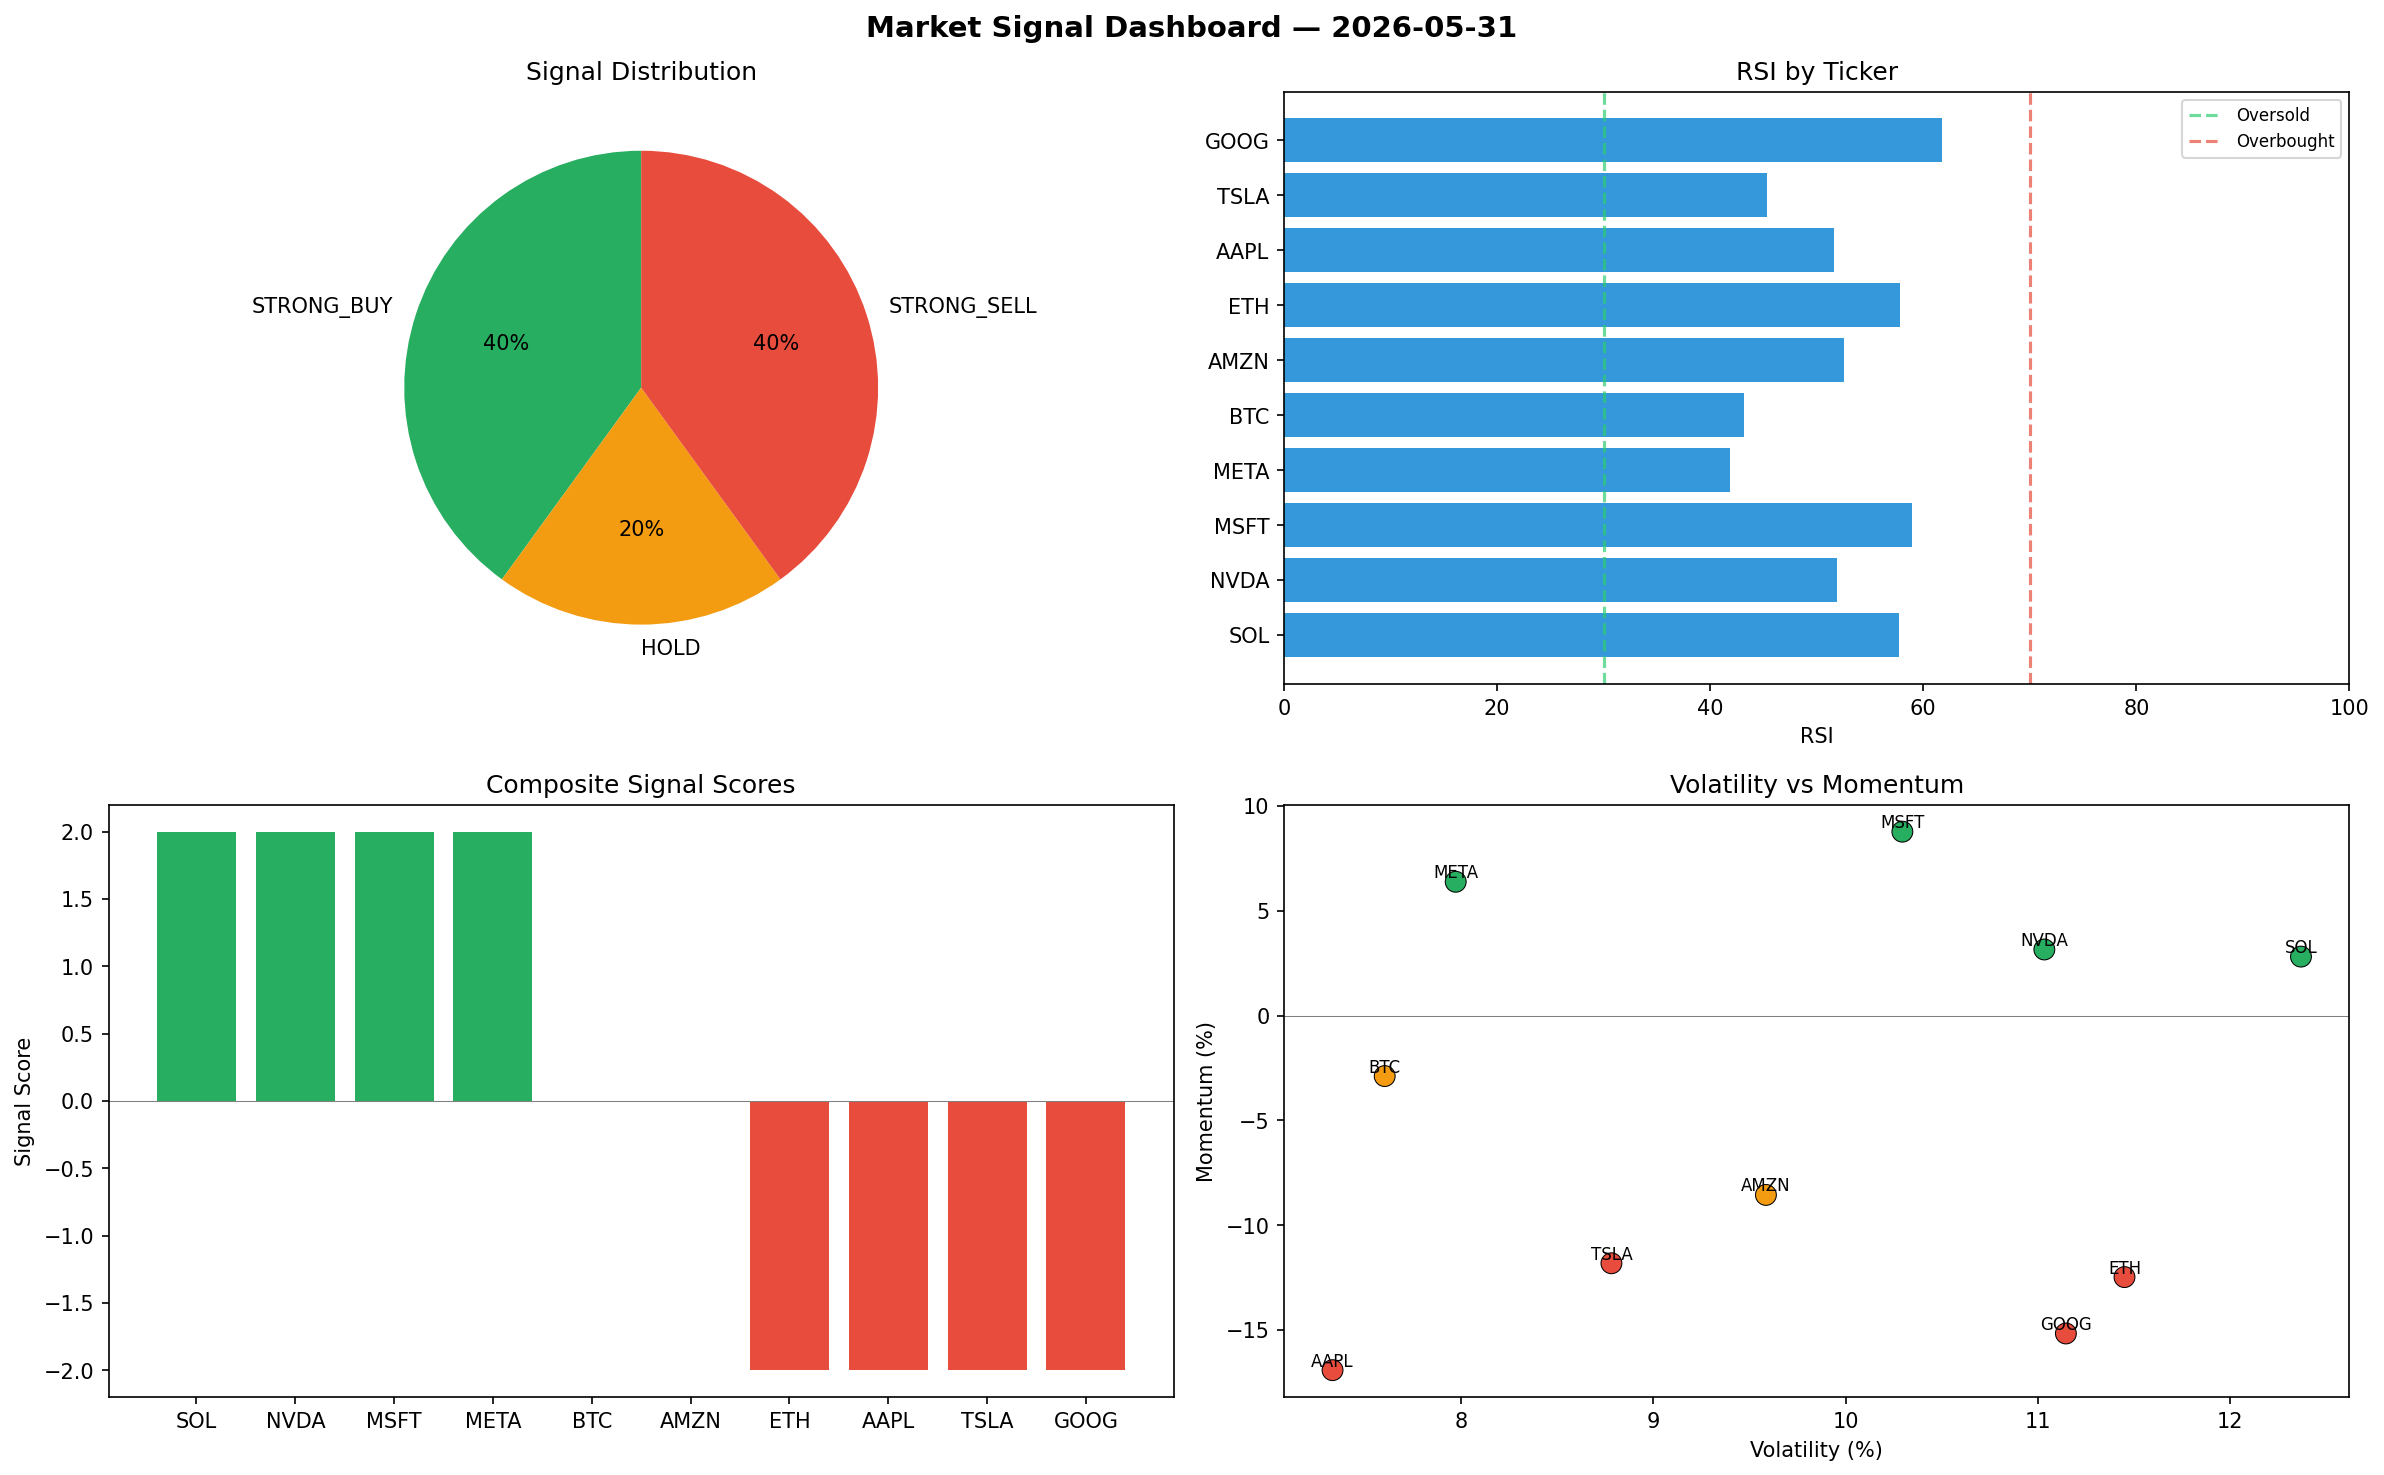
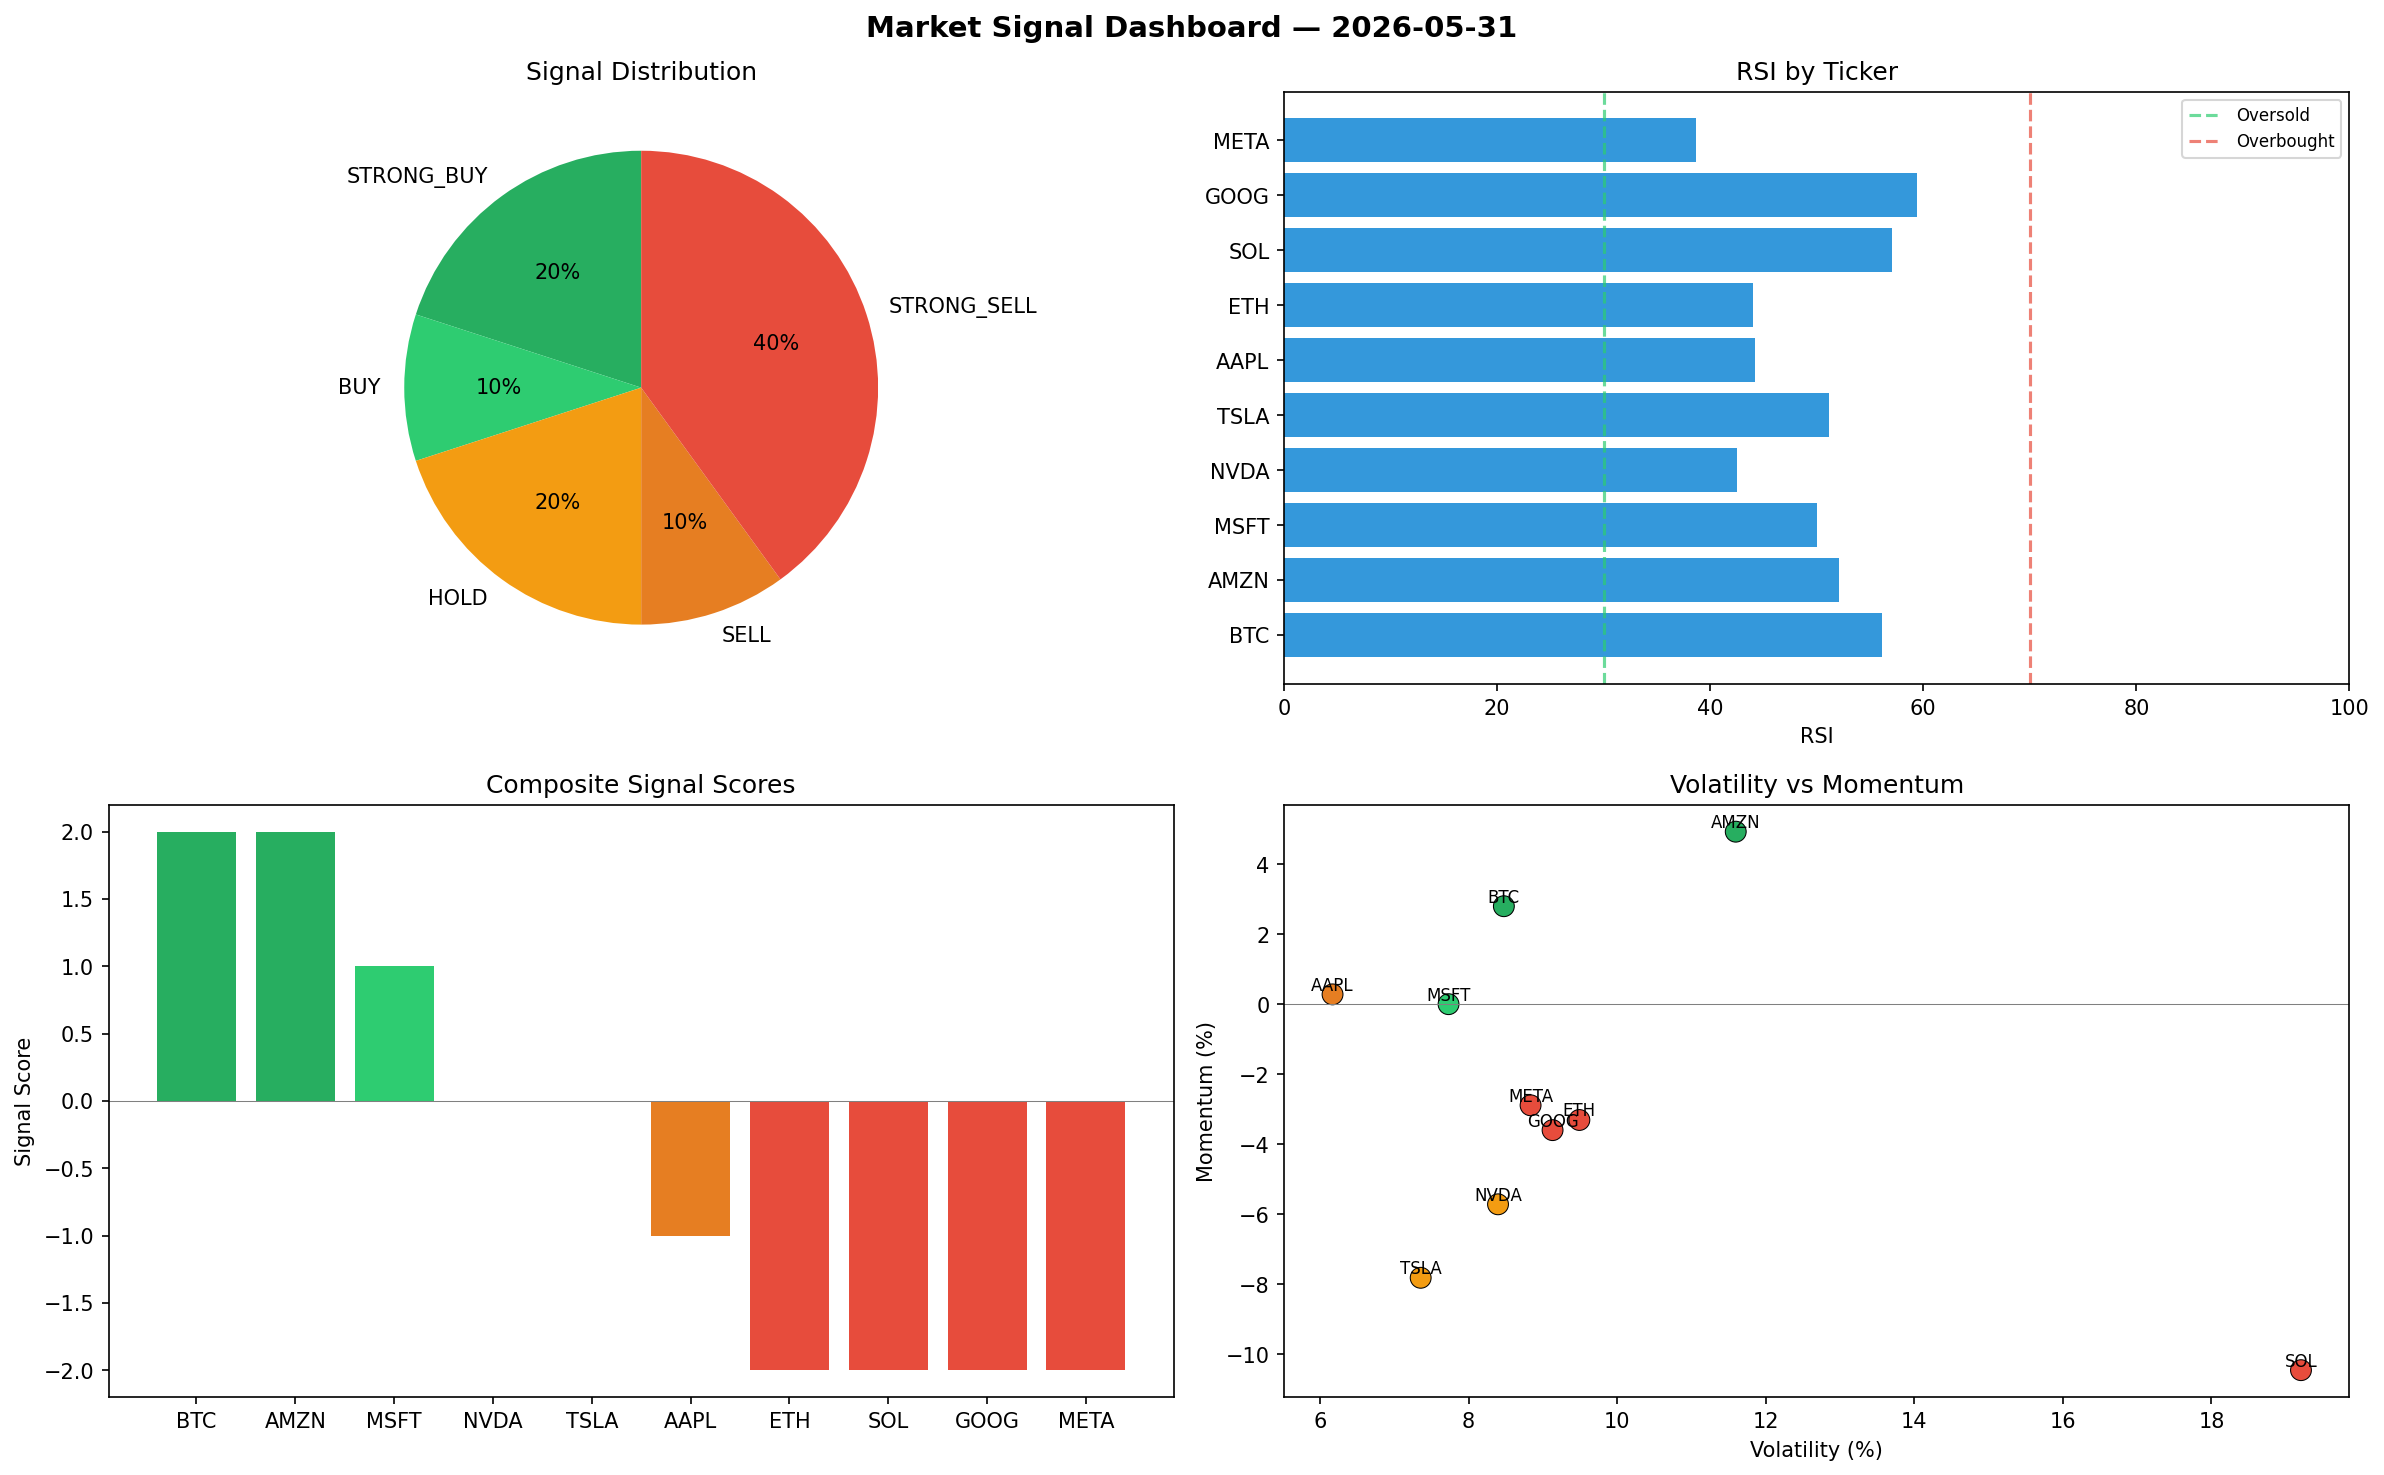
automated-bots: market signals 2026-05-31T15:49

diff --git a/logs/2026-05-31.md b/logs/2026-05-31.md
@@ -1,6 +1,6 @@
 # Market Signal Report — 2026-05-31
 
-**Run ID:** `00b2ddc9ed` | **Buy:** 4 | **Sell:** 4 | **Hold:** 2
+**Run ID:** `d0213c46e3` | **Buy:** 3 | **Sell:** 5 | **Hold:** 2
 
 ![Dashboard](2026-05-31_dashboard.png)
 
@@ -8,28 +8,28 @@
 
 | Ticker | Price | Signal | Score | RSI | Momentum | Confidence |
 |--------|-------|--------|-------|-----|----------|------------|
-| SOL | $4107.29 | **STRONG_BUY** | 2 | 57.73 | 0.0281 | 0.5 |
-| NVDA | $4864.78 | **STRONG_BUY** | 2 | 51.9 | 0.0315 | 0.5 |
-| MSFT | $4326.11 | **STRONG_BUY** | 2 | 58.95 | 0.0877 | 0.5 |
-| META | $2443.5 | **STRONG_BUY** | 2 | 41.82 | 0.0638 | 0.5 |
-| BTC | $1623.41 | **HOLD** | 0 | 43.18 | -0.0289 | 0.0 |
-| AMZN | $1313.38 | **HOLD** | 0 | 52.57 | -0.0856 | 0.0 |
-| ETH | $4355.15 | **STRONG_SELL** | -2 | 57.82 | -0.1248 | 0.5 |
-| AAPL | $2088.69 | **STRONG_SELL** | -2 | 51.61 | -0.1692 | 0.5 |
-| TSLA | $4625.36 | **STRONG_SELL** | -2 | 45.36 | -0.1182 | 0.5 |
-| GOOG | $2012.08 | **STRONG_SELL** | -2 | 61.75 | -0.1517 | 0.5 |
+| BTC | $1742.32 | **STRONG_BUY** | 2 | 56.15 | 0.028 | 0.5 |
+| AMZN | $369.37 | **STRONG_BUY** | 2 | 52.07 | 0.0493 | 0.5 |
+| MSFT | $2391.86 | **BUY** | 1 | 50.01 | -0.0 | 0.25 |
+| NVDA | $1619.8 | **HOLD** | 0 | 42.54 | -0.0572 | 0.0 |
+| TSLA | $1156.07 | **HOLD** | 0 | 51.14 | -0.0782 | 0.0 |
+| AAPL | $4300.91 | **SELL** | -1 | 44.16 | 0.0028 | 0.25 |
+| ETH | $4193.08 | **STRONG_SELL** | -2 | 44.02 | -0.0331 | 0.5 |
+| SOL | $3087.07 | **STRONG_SELL** | -2 | 57.03 | -0.1046 | 0.5 |
+| GOOG | $4309.52 | **STRONG_SELL** | -2 | 59.45 | -0.036 | 0.5 |
+| META | $777.36 | **STRONG_SELL** | -2 | 38.64 | -0.0289 | 0.5 |
 
 ## Delta vs Yesterday
 
 | Ticker | Today | Yesterday | Price Change | Signal Changed |
 |--------|-------|-----------|-------------|----------------|
-| SOL | STRONG_BUY | SELL | 📈 21.24% | ⚠ YES |
-| NVDA | STRONG_BUY | HOLD | 📈 132.97% | ⚠ YES |
-| MSFT | STRONG_BUY | STRONG_SELL | 📈 29.92% | ⚠ YES |
-| META | STRONG_BUY | STRONG_BUY | 📈 1799.19% | — |
-| BTC | HOLD | BUY | 📉 -62.15% | ⚠ YES |
-| AMZN | HOLD | HOLD | 📉 -64.78% | — |
-| ETH | STRONG_SELL | STRONG_BUY | 📉 -4.99% | ⚠ YES |
-| AAPL | STRONG_SELL | SELL | 📉 -59.24% | ⚠ YES |
-| TSLA | STRONG_SELL | HOLD | 📈 70.28% | ⚠ YES |
-| GOOG | STRONG_SELL | BUY | 📈 196.4% | ⚠ YES |
+| BTC | STRONG_BUY | BUY | 📉 -59.38% | ⚠ YES |
+| AMZN | STRONG_BUY | HOLD | 📉 -90.09% | ⚠ YES |
+| MSFT | BUY | STRONG_SELL | 📉 -28.17% | ⚠ YES |
+| NVDA | HOLD | HOLD | 📉 -22.43% | — |
+| TSLA | HOLD | HOLD | 📉 -57.44% | — |
+| AAPL | SELL | SELL | 📉 -16.07% | — |
+| ETH | STRONG_SELL | STRONG_BUY | 📉 -8.52% | ⚠ YES |
+| SOL | STRONG_SELL | SELL | 📉 -8.88% | ⚠ YES |
+| GOOG | STRONG_SELL | BUY | 📈 534.83% | ⚠ YES |
+| META | STRONG_SELL | STRONG_BUY | 📈 504.2% | ⚠ YES |
